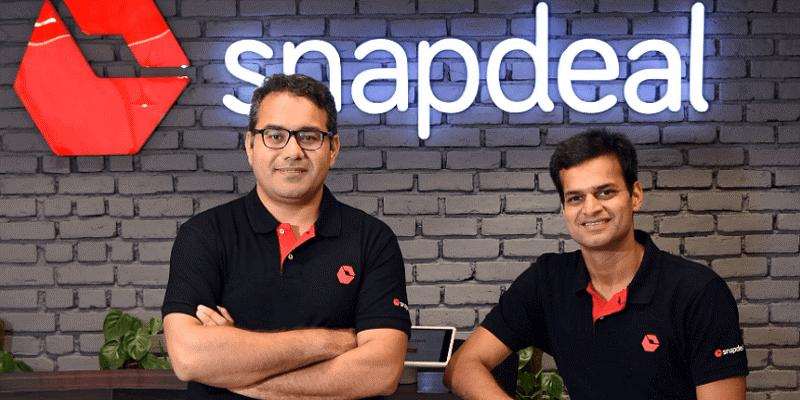
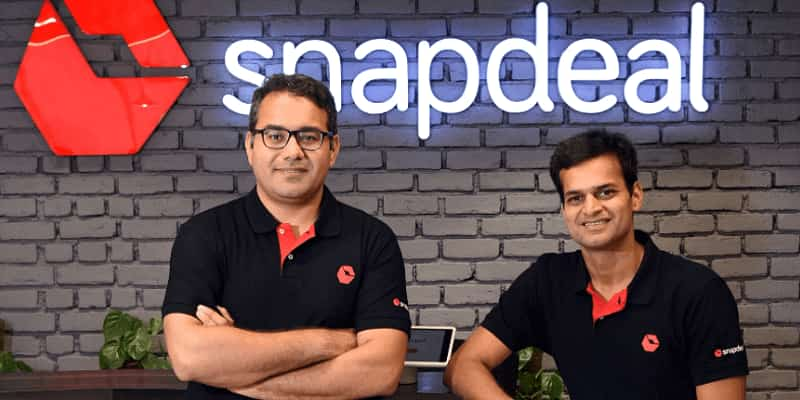
a

Changed region(s): [[0.9062, 0.87, 0.9375, 0.9], [0.3438, 0.57, 0.375, 0.6], [0.3438, 0.33, 0.375, 0.36]]

diff --git a/index.html b/index.html
@@ -491,7 +491,7 @@
                     </a>
                     <a class="myItem mySlides" style="display: block;">
                         <div class="divn">
-                            <div class="thumbnail-showcase"><img class="left-showcase" src="files/showcase/snapdeal.png">
+                            <div class="thumbnail-showcase"><img class="left-showcase" src="files/showcase/snapdeal.jpg">
                             </div>
                             <div class="right-showcase">
                                 <h1>Snapdeal</h1>
